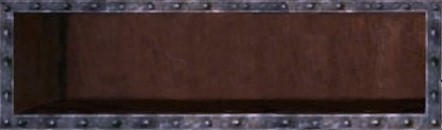
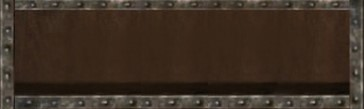
pre-finist creared

diff --git a/src/store/redusers/reducers.js b/src/store/redusers/reducers.js
@@ -3,9 +3,9 @@ import {ADD_COMPONENT, DELETE_CURRENT, CREATE_POTION, CHANGE_TOGGLE} from '../Ac
 import recipe from '../recipe'
 
 const searchPotions = (comp1, comp2) => {
-    let result = [comp1,comp2].sort();
-    result = `${result[0]}-${result[1]}`
-    let objPotion = recipe.find(o => o.recipe === result)
+    let resultStr = [comp1,comp2].sort();
+    resultStr = `${resultStr[0]}-${resultStr[1]}`
+    let objPotion = recipe.find(o => o.recipe === resultStr)
     if (objPotion){
     return objPotion
     }
@@ -51,7 +51,6 @@ const reducers = (state = initialState, action) => {
         case CREATE_POTION: 
             if ((state.currentComponents[0].title && state.currentComponents[1].title) && state.potions.length < 9 ) {
             let potion = searchPotions(state.currentComponents[0].title, state.currentComponents[1].title)
-            
             if (potion === undefined) {
                 return {...state,
                     currentComponents: [
@@ -73,7 +72,6 @@ const reducers = (state = initialState, action) => {
                                 isCreated: true,
                                 potion: potion}
                         } 
-                    
             } else if(state.potions.length === 9) {
                 return {...state,
                     currentComponents: [
@@ -83,18 +81,16 @@ const reducers = (state = initialState, action) => {
                             key: 2}],
                             modal: {isToggle: true,
                                 isFull: true}
-                        } 
-            
+                        }     
          } return state;
             case CHANGE_TOGGLE: 
                 return {...state,
                     modal: {
-                        isToggle: !state.modal.isToggle
+                        isToggle: false
                     }
                 } 
                default: return state           
-    }
-                    
+            }             
 };
 
 export default reducers;

diff --git a/src/Modal.js b/src/Modal.js
@@ -1,7 +1,7 @@
 import styled from 'styled-components'
 import img from './img/bigpeper.png'
+
         const Wrapper = styled.div`
- 
         display: ${props => props.isToggle ? 'flex' : 'none'};
         width: 800px;
         height: 400px;
@@ -16,9 +16,10 @@ import img from './img/bigpeper.png'
         z-index: 1000;
         top: 40%;
         left: -15%;
-        p{
+        p {
             margin: 100px;
-        }
+    }
+
         @media screen and (max-width: 1200px) {
         width: 600px;
         height: 300px;
@@ -40,14 +41,12 @@ import img from './img/bigpeper.png'
         font-size: 20px;
         top: 50%;
         left: 5%;
-    }
-        `
+    }`
 const Modal = (props) => {
     const modal = props.modal
     let createdText
     if (modal.isCreated) { 
         createdText = `Поздравляем, вы создали ${modal.potion.name}.`
-
     } else if(modal.isFull) {
         createdText = `На полке кончалось место, вы можете перезагрузить страницу и попробовать еще раз!`
     } else {
@@ -55,7 +54,6 @@ const Modal = (props) => {
     }
     return (
     <Wrapper isToggle={modal.isToggle} onClick={()=>{props.changeToggle()}}>
-        {/* <button >X</button> */}
         <p>{createdText}</p>
     </Wrapper>
 )

diff --git a/src/Components.js b/src/Components.js
@@ -2,8 +2,6 @@ import React from 'react'
 import Component from './Component';
 import styled from 'styled-components'
 
-
-
 class Components extends React.Component {
   constructor(props) {
     super(props)
@@ -17,7 +15,6 @@ class Components extends React.Component {
   render() {
     const components = this.props.state
     let i = 0;
-  
     return (
         <Wrapper>
           {components.map((component) => 
@@ -26,8 +23,7 @@ class Components extends React.Component {
            )}
         </Wrapper>
     );
-}
-}
+}}
 
   const Wrapper = styled.div `
     background: rgba(0,0,0,0.3);

diff --git a/src/Potion.js b/src/Potion.js
@@ -1,7 +1,6 @@
 import React from 'react'
 import styled from 'styled-components'
 
-
 function Potion(props) {  
     return (
       <>
@@ -9,7 +8,6 @@ function Potion(props) {
         </>
     );
   }
-  
 
   const Img = styled.img`
     height: 80px;
@@ -17,14 +15,9 @@ function Potion(props) {
     margin-right: -35px;
     padding-top: 15px;
     padding-left: 5px;
-
     @media screen and (max-width: 450px) {
       height: 50px;
       width: 50px;
-
-
-
-    }
- `  
+    }`  
   export default Potion;
   

diff --git a/src/Cells.js b/src/Cells.js
@@ -1,17 +1,12 @@
 import React from 'react'
 import Component from './Component';
 import styled from 'styled-components'
-
-
-
 class Cells extends React.Component {
   constructor(props) {
     super(props)
     
     this.handleClick = this.handleClick.bind(this);
   }
-
-  
 
   handleClick(value)  {
     this.props.deleteCurrent(value);
@@ -31,6 +26,7 @@ class Cells extends React.Component {
       </Wrapper>
     );}
   }
+
   const Wrapper = styled.div `
   margin: 20px auto;
   width: 300px;

diff --git a/src/Component.js b/src/Component.js
@@ -2,9 +2,7 @@ import React from 'react'
 import styled from 'styled-components'
 import img from './img/peper.jpg'
 
-
 function Component(props) {  
-
     return (
       <Wrapper onClick={props.onClick}>
       <WrapperText key={props.id} value={props.title}  >{props.title}
@@ -13,7 +11,6 @@ function Component(props) {
     );
   }
   
-
   const Wrapper = styled.div `
     height: 100px;
     width: 100px;

diff --git a/src/PotionsShelf.js b/src/PotionsShelf.js
@@ -1,8 +1,6 @@
 import styled from 'styled-components'
 import Potion from './Potion';
-import bg from './img/polka2.jpg'
-
-
+import bg from './img/polka.jpg'
 
 const PotionsShelf = (props) => {
     const potions = props.potions;
